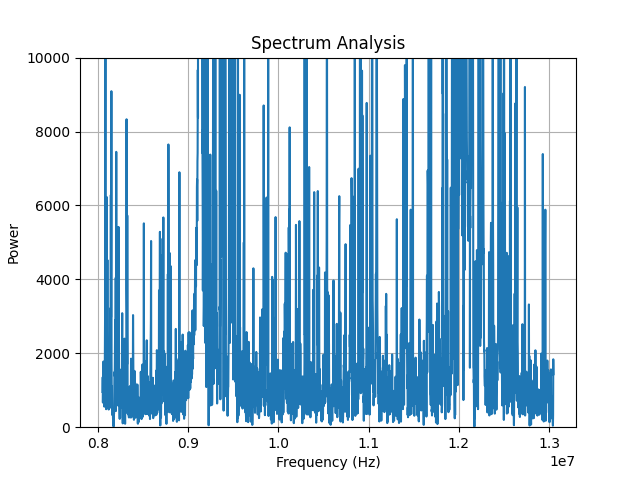
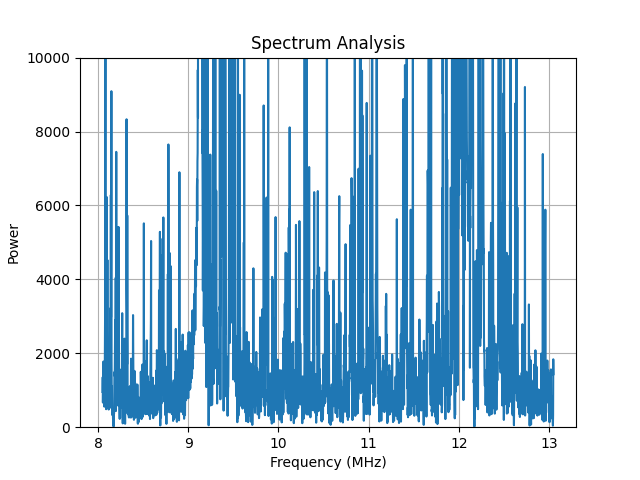
Fix: Spectrum Plot Frequency Scaling
Fixed Spectrum Plot freq scaling to MHz instead of Hz

diff --git a/src/spectrum_test.py b/src/spectrum_test.py
@@ -16,16 +16,20 @@ if 'Frequency' not in data.columns or 'Power' not in data.columns:
     print(f"Available columns: {data.columns}")
     raise ValueError("The required columns 'Frequency' and 'Power' are not present in the CSV file.")
 
-# Plot the spectrum data
-Power = data['Power'].to_numpy()
-Freq = data['Frequency'].to_numpy()
+# Plot the spectrum data (Freq in MHz)
+# data['Power'] = data['Power'] 
+Power = data['Power'].to_numpy() 
+Freq = data['Frequency'].to_numpy() / 1e6
+
 
 plt.plot(Freq, Power)
-plt.xlabel('Frequency (Hz)')
+plt.xlabel('Frequency (MHz)')
 plt.ylabel('Power')
 plt.title('Spectrum Analysis')
 plt.grid(True)
 plt.ylim(0,10000)
+# plt.xticks(np.arange(min(Freq), max(Freq) + 1e3, 1e6))
+plt.yticks(np.arange(0, 11e3, 2000))
 # TODO: scale freq to 1e6 instead
 
 
